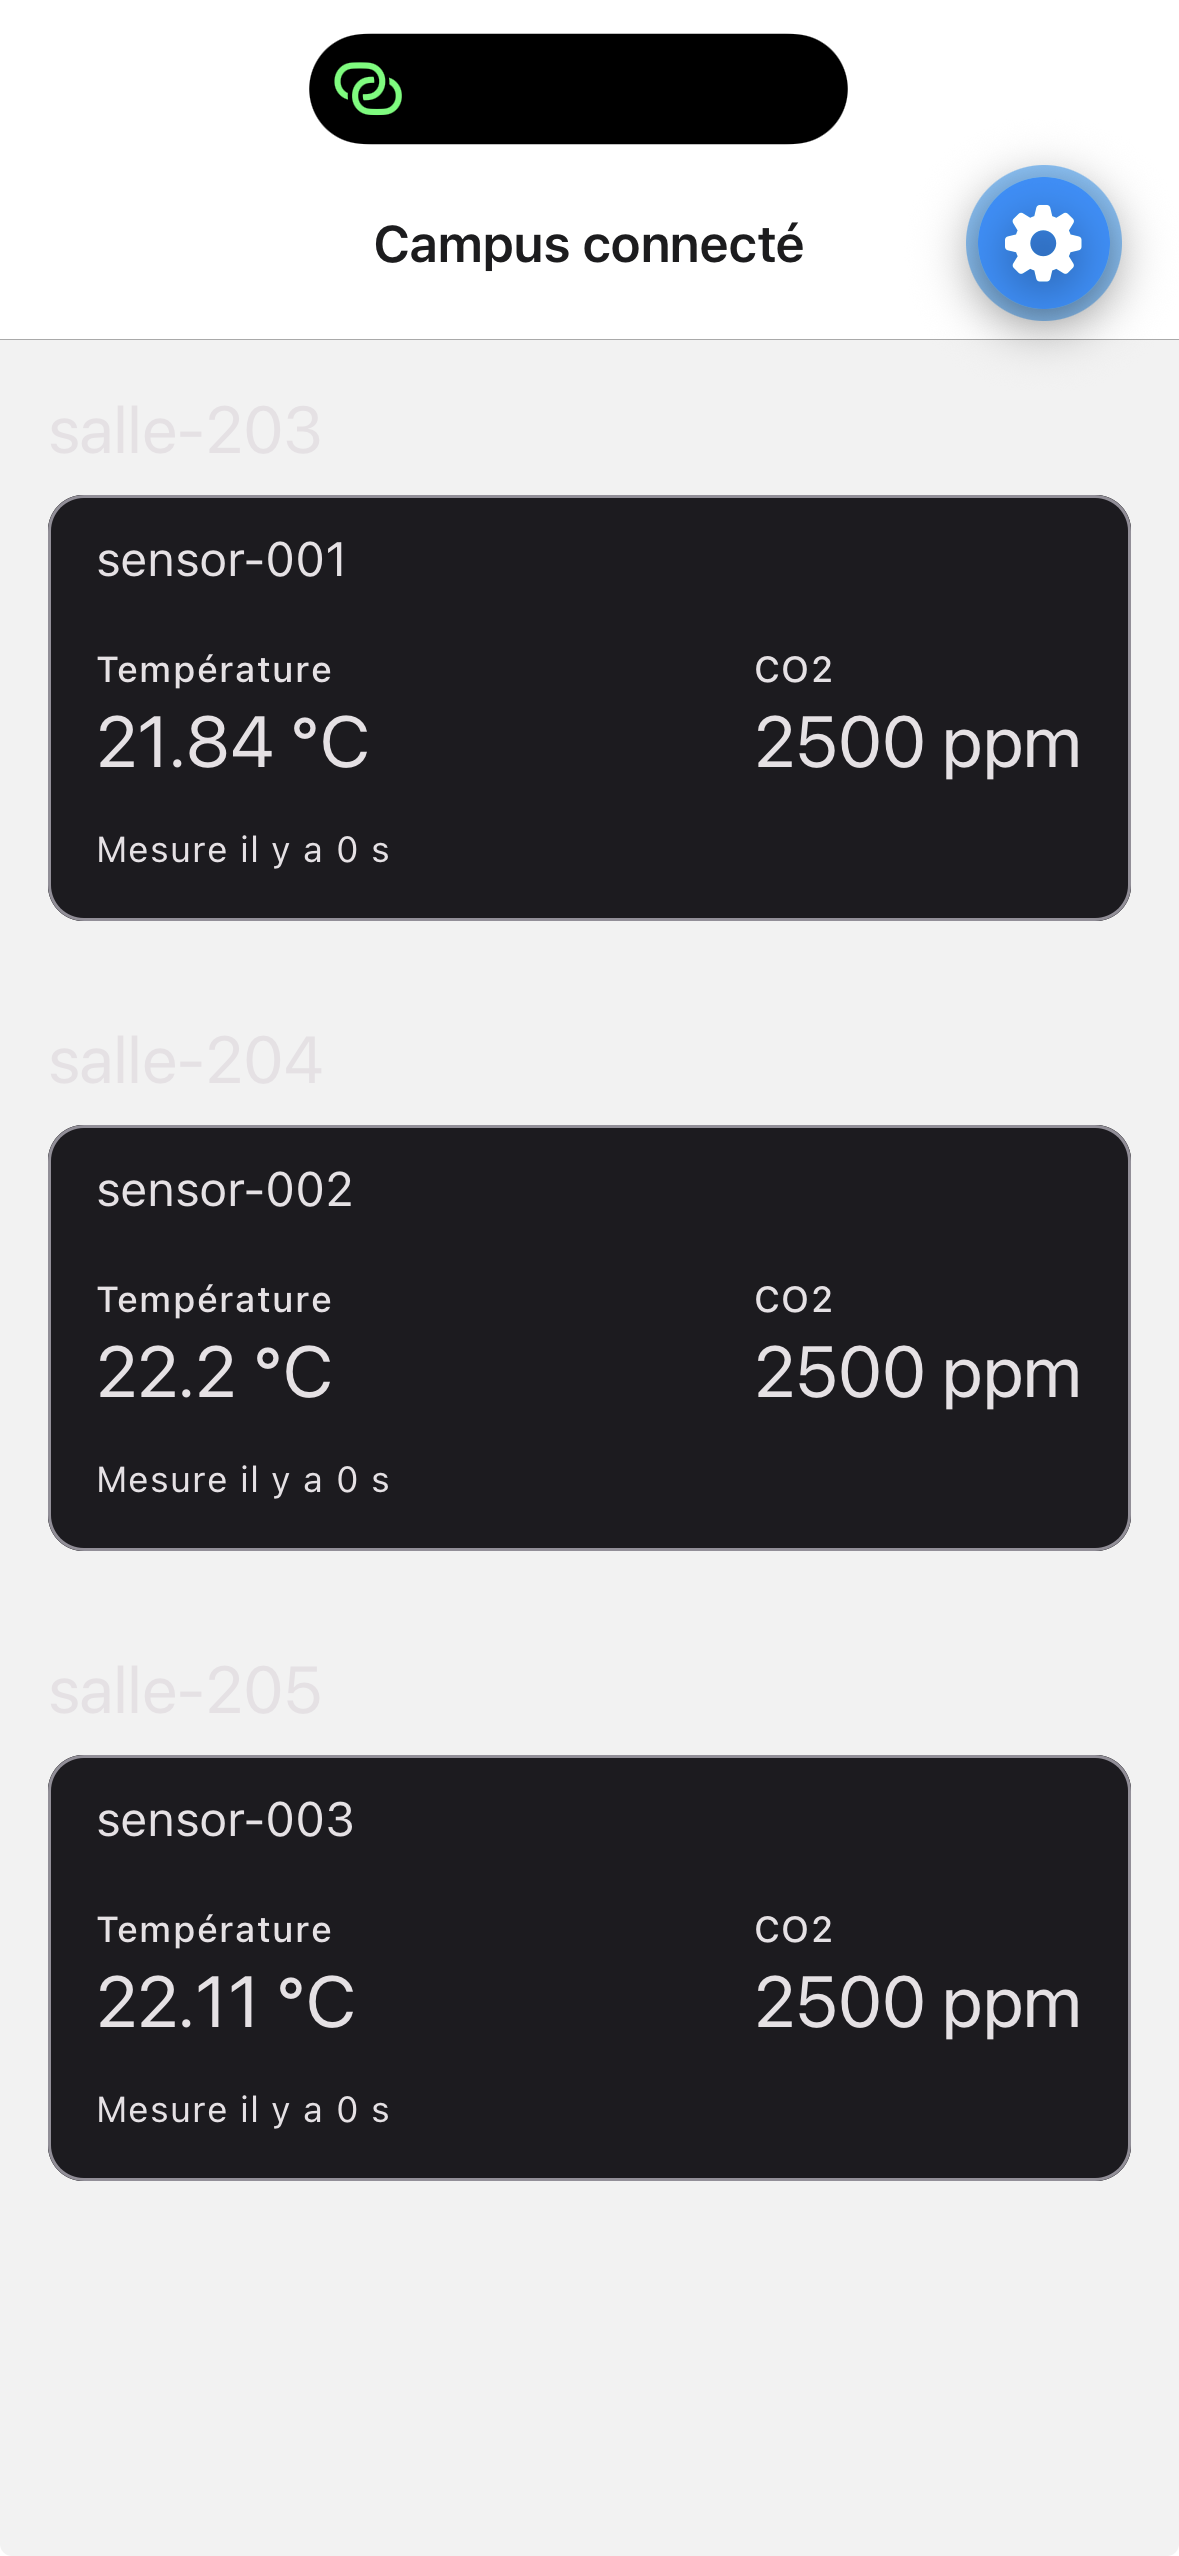
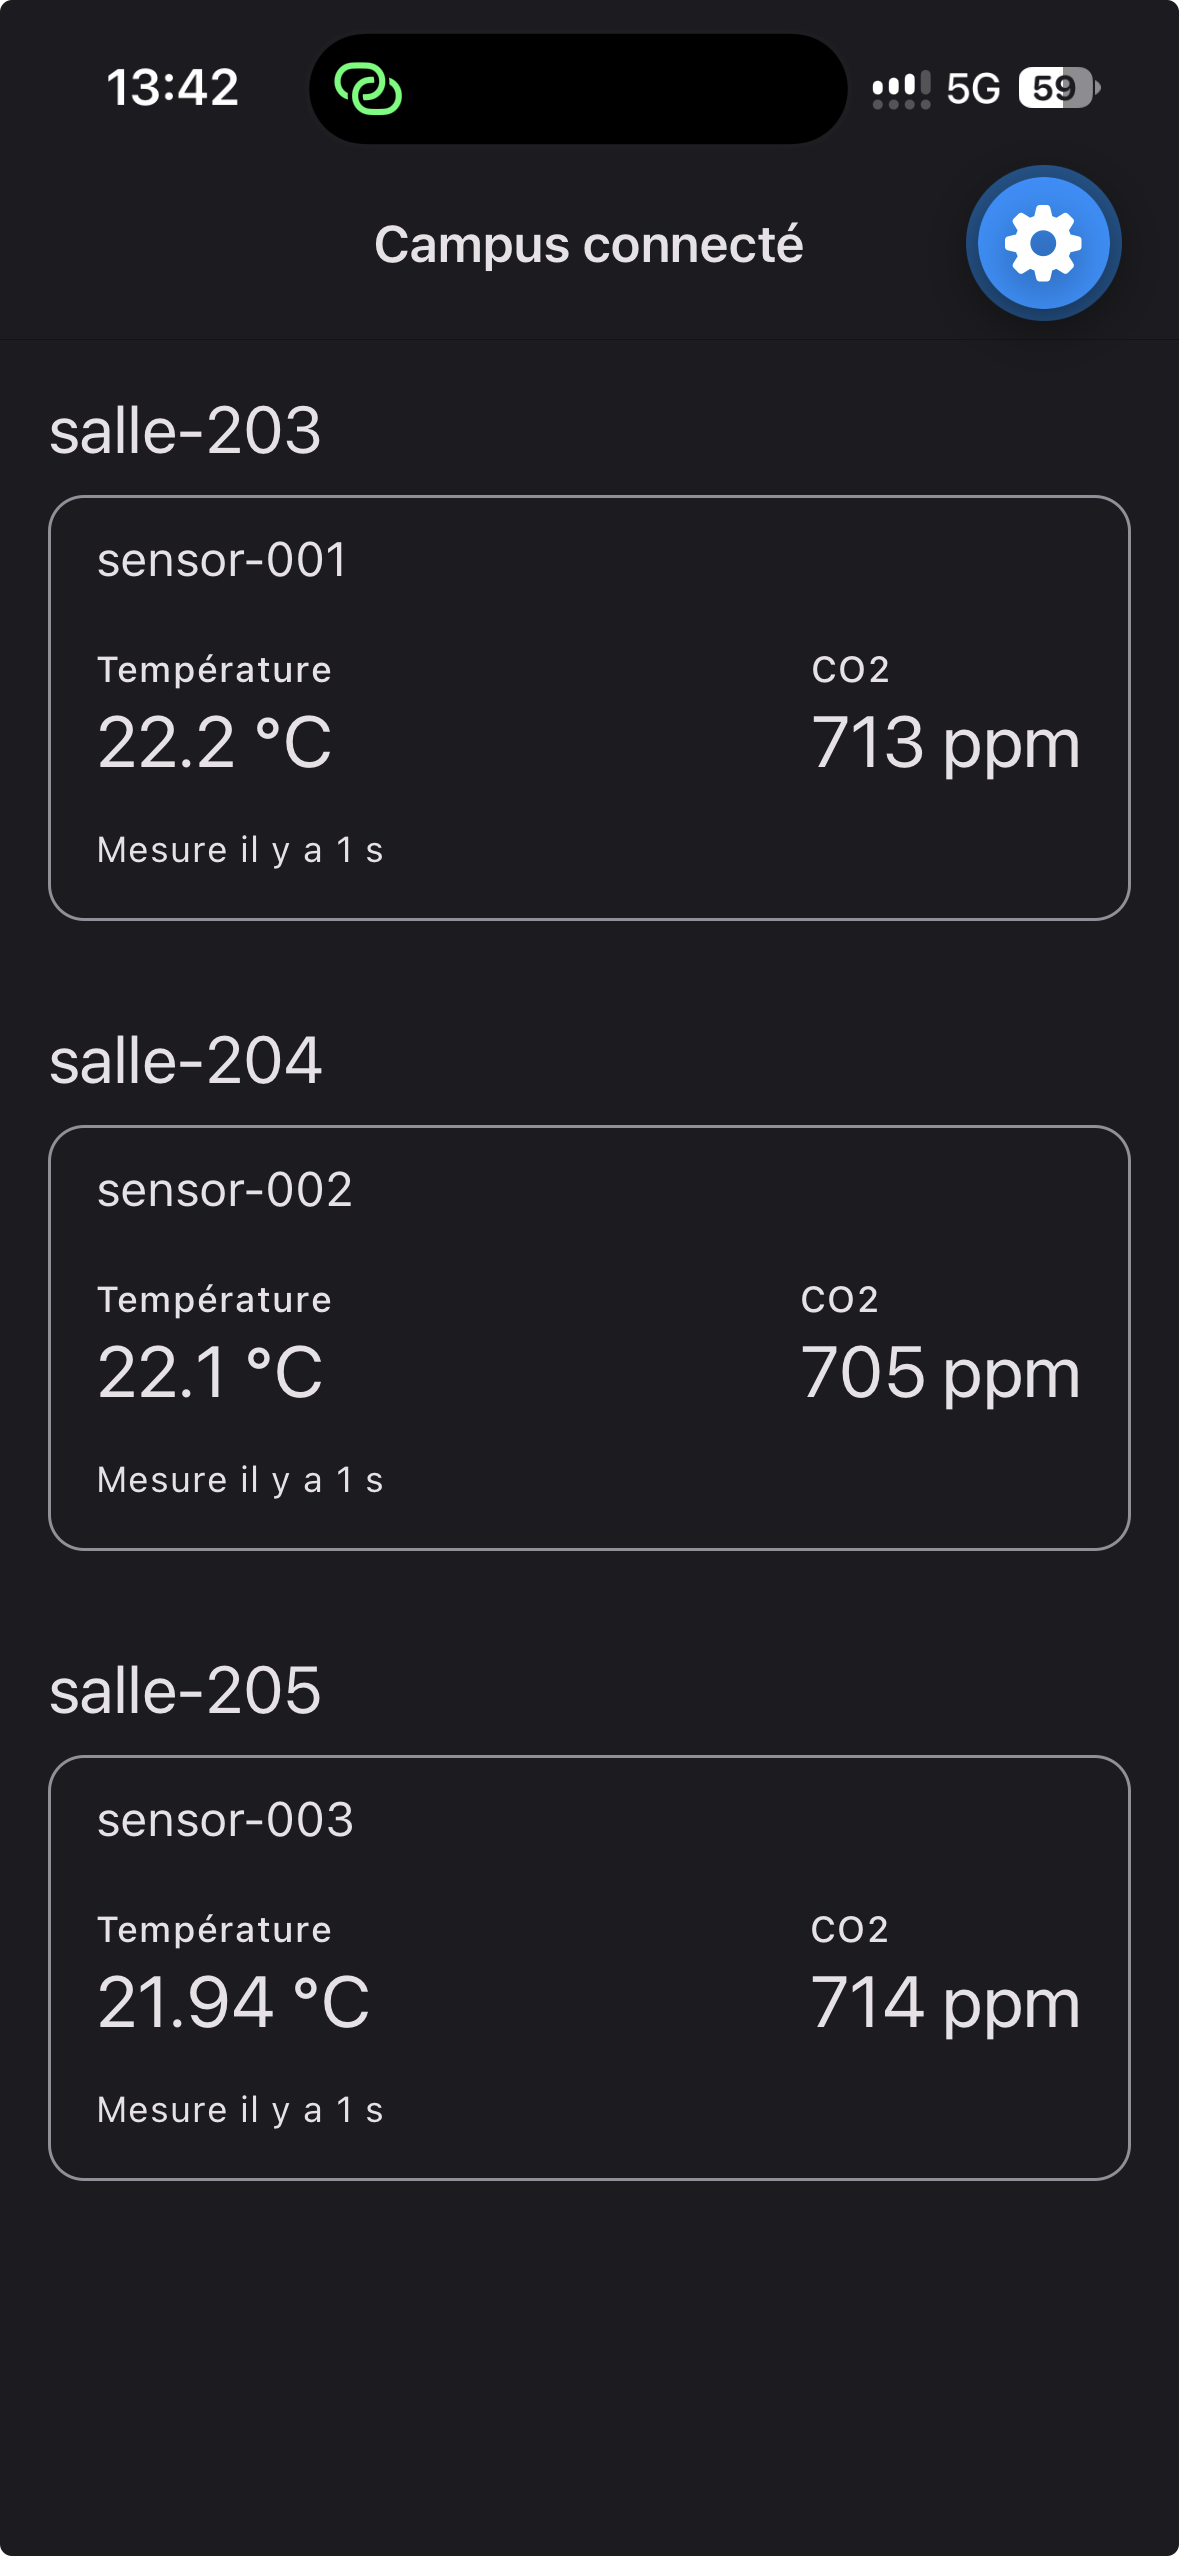
docs: remplace la capture de la liste des salles
La précédente datait d'avant la correction du thème sombre.

diff --git a/docs/J1.md b/docs/J1.md
@@ -92,9 +92,6 @@ des dernières données connues. C'est le sujet de J2.
 Le rafraîchissement est un simple appel toutes les 15 secondes. Le retour du réseau et le
 retour de l'application au premier plan ne déclenchent pas encore de nouvel appel.
 
-La capture `J1-liste-des-salles.png` a été prise avant la correction du thème sombre : les
-noms de salles y sont peu lisibles. Le défaut est corrigé, la capture est à refaire.
-
 Le serveur de développement signale `Asset not found: assets/icon.png`. Sans effet sur le
 fonctionnement, l'icône de l'application n'a pas encore été traitée.
 
